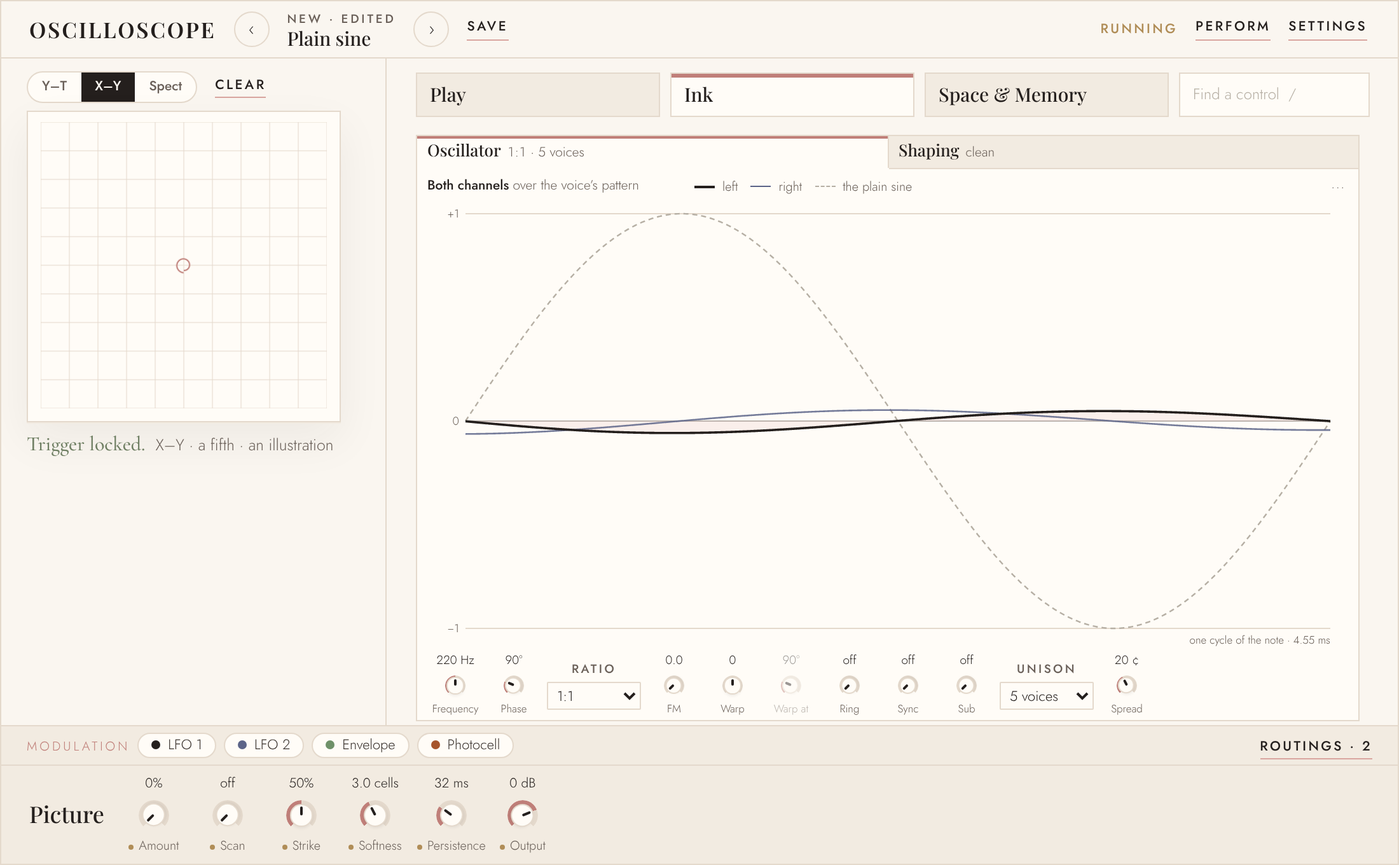
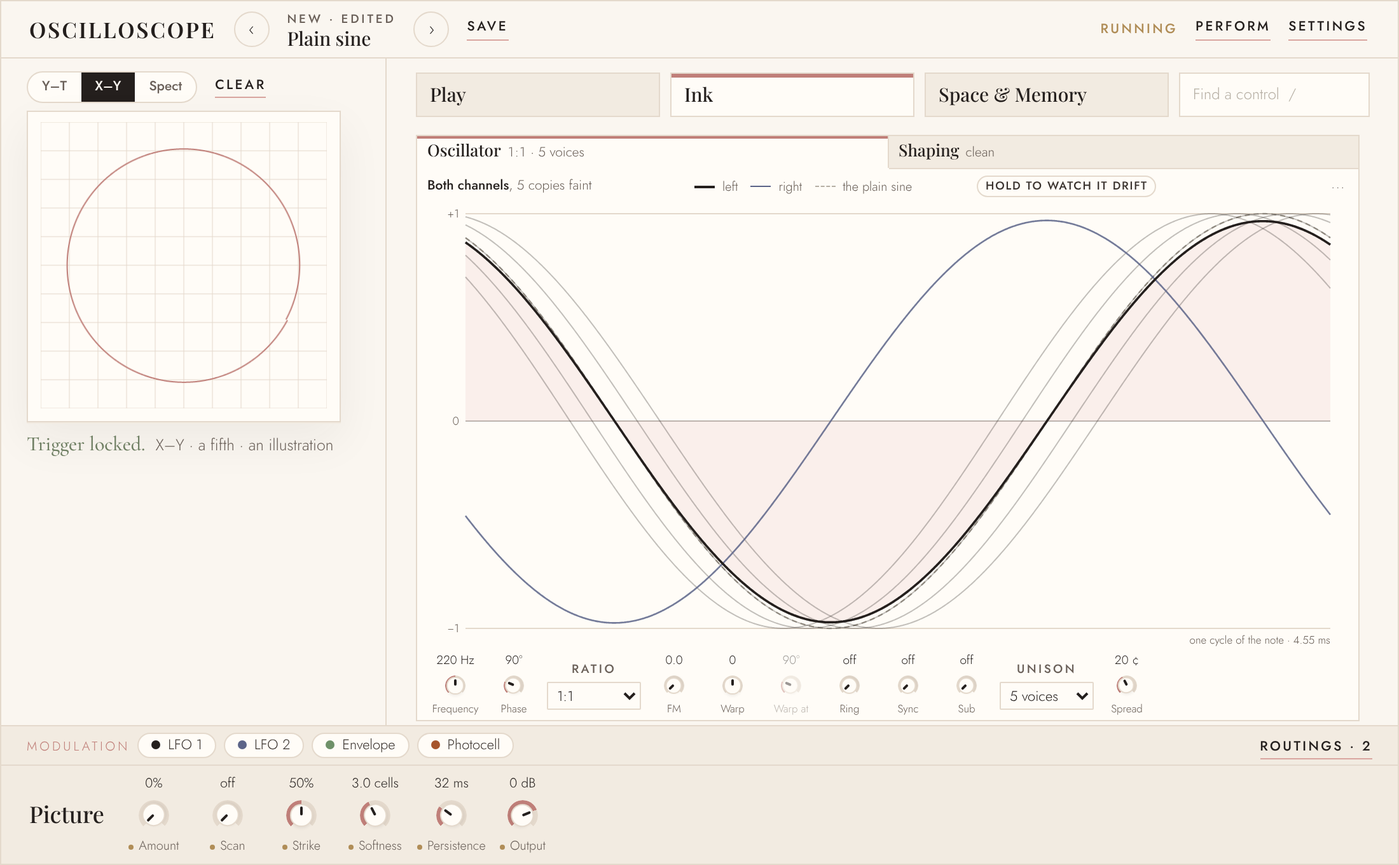
Draw Ink's settings still, with Unison frozen where its copies fan out
The owner found the drifting unison copies made the Oscillator look as if
notes were being played. Ink's drawings now never move by themselves: the
clock-driven redraw is gone, and a drawing changes only when a control
does.

Unison is a still. Each copy is faint in the left channel's ink and their
average, what is heard, bold. They are frozen 4.33 of the note's cycles
in, a quarter of a beat at the widest Spread. That makes the fan the same
at any note, growing with Spread and never folding back. At nought seconds
every copy coincides. "Hold to watch it drift" runs them while held, and
only then, and it keeps its place unseen while Unison is off.

New checks, each with its null:
- the still's bold line is oscStep's output at that moment within 1e-12,
  at 3, 5 and 7 copies;
- the fan grows with Spread;
- nothing redraws over 1.5 s with no control moving, and the old clock put
  back is seen to;
- letting go of the drift returns the very same still.

That last check caught a repaint a pixel short after the hold. Ink is now
rebuilt on letting go, and not refitted while held.

ink-figures.md records the rule as decided.

Claude-Session: https://claude.ai/code/session_01RoVqvNydmG92dn6zbEHjmU

diff --git a/web/docs/mockups/ink/index.html b/web/docs/mockups/ink/index.html
@@ -614,11 +614,11 @@ kbd { font-family: var(--mono); font-size: 0.8em; border: 1px solid var(--pg-lin
   </div>
   <div class="stage-wrap" id="stageWrap"><div class="stage" id="stage"><div class="win" id="win"></div></div></div>
   <div class="fit-line" id="fitLine" aria-live="polite"></div>
-  <p class="page-note">Measured live in the window’s own pixels. Turn a knob by dragging it up or down; a double press puts it back. Unison is drawn as it drifts, while the clock runs.</p>
+  <p class="page-note">Measured live in the window’s own pixels. Turn a knob by dragging it up or down; a double press puts it back. Ink draws the settings, still: nothing moves unless a control does. With Unison on, <i>Hold to watch it drift</i> runs the copies while it is held.</p>
   <h2>What Ink is</h2>
   <ul>
     <li><b>A figure area and nothing else.</b> Ink has no band and no settings row, so the area takes the whole tab. Its bar has two subtabs, each label its name and a summary: <i>Oscillator · 3:2 · FM 2.0</i>, <i>Shaping · drive 45% · 4 bits</i>, or <i>plain</i> and <i>clean</i> when nothing is turned. The summaries shorten as Play’s do, and none needed to at the six windows.</li>
-    <li><b>Oscillator</b> draws <b>both channels over the voice’s whole pattern</b>: the left in charcoal and the right in slate (offset by Phase), with the plain shape dashed and grey behind them, so what the oscillator adds is the difference you see. The span is as many of the note’s cycles as it takes to repeat: the Ratio’s denominator, and the sub’s octave (<i>2 cycles: the pattern repeats every 2</i>). Unison is drawn drifting while the clock runs. Under the drawing is one row: Frequency, Phase, Ratio, FM, Warp, Warp at, Ring, Sync, Sub, Unison and Spread. Warp at and Spread are greyed, not hidden, while Warp and Unison are off. The sub’s octave and shape go to the section’s dots menu.</li>
+    <li><b>Oscillator</b> draws <b>both channels over the voice’s whole pattern</b>: the left in charcoal and the right in slate (offset by Phase), with the plain shape dashed and grey behind them, so what the oscillator adds is the difference you see. The span is as many of the note’s cycles as it takes to repeat: the Ratio’s denominator, and the sub’s octave (<i>2 cycles: the pattern repeats every 2</i>). Unison is drawn still: each copy faint, their average (what you hear) bold, frozen 4.33 of the note’s cycles in, where the outer copies at the widest Spread are a quarter of the way through their beat, so the fan grows with Spread and never folds back. <i>Hold to watch it drift</i> runs them while held, and only then. Under the drawing is one row: Frequency, Phase, Ratio, FM, Warp, Warp at, Ring, Sync, Sub, Unison and Spread. Warp at and Spread are greyed, not hidden, while Warp and Unison are off. The sub’s octave and shape go to the section’s dots menu.</li>
     <li><b>Shaping</b> draws <b>the shaper’s curve</b>, a square of in against out, with the straight line dashed behind it. The Crush’s bits are the steps the curve takes, and the smooth curve stays faint under the steps. Beside it, <b>two cycles of the oscillator before and after</b>, with Rate shown as the holds it puts in at the note’s Frequency. Under them: Drive, Fold, Crush and Rate.</li>
   </ul>
 
@@ -2667,7 +2667,17 @@ const BITS = [[0, "Off"], [8, "8 bits"], [6, "6 bits"], [4, "4 bits"], [3, "3 bi
 const RATES = [[0, "Off"], [11025, "11 kHz"], [8000, "8 kHz"], [4000, "4 kHz"], [2000, "2 kHz"], [1000, "1 kHz"], [500, "500 Hz"]];
 /* The Ink tab's values, in the setup's own units (SETUP_FIELDS): what the knobs store. */
 const INK_START = { freq: 220, phase: 90, oscRatio: 1, oscFm: 0, oscBend: 0, oscBendAt: 25, oscRing: 0, oscSync: 100, oscSub: 0, oscSubOct: 1, oscSubShape: "square", oscUnison: 1, oscSpread: 12, shpDrive: 0, shpFold: 0, shpBits: 0, shpRate: 0 };
-Object.assign(S, { ink: Object.assign({}, INK_START), inkSub: "osc", genShape: "sine", inkShows: "wave", clock: "run", t: 0 });
+Object.assign(S, { ink: Object.assign({}, INK_START), inkSub: "osc", genShape: "sine", inkShows: "wave", drift: null, liveNull: false, nullT: 0 });
+/* Ink draws the settings, still (the owner, 19 Nov): a drawing changes when a control does and at no
+   other time. Unison, which beats, is frozen at one moment, chosen so the copies fan out by the Spread:
+   4.33 of the note's cycles in, which is a quarter of the way through the beat between the outer copies
+   at the widest Spread (50 cents). In cycles rather than seconds, so the fan is the same at any note;
+   short of a quarter beat at any narrower Spread, so the fan grows with Spread and never wraps back.
+   At nought seconds every copy coincides and the fan cannot be seen. */
+const STILL_CYCLES = 0.25 / (Math.pow(2, 50 / 1200) - Math.pow(2, -50 / 1200));
+const stillT = (T) => (T.n > 1 ? STILL_CYCLES / T.hz : 0);
+// The moment drawn: the still, and only while "Hold to watch it drift" is held, the time since.
+const tNow = (T) => stillT(T) + (S.drift ? (performance.now() - S.drift) / 1000 : 0) + (S.liveNull ? S.nullT : 0);
 
 /* The voice's tone as the core reads it from those (restore.h's LayerControl table): FM a tenth, Warp
    0.009 rad a step, Warp at, Ring, Sync and Sub hundredths, drive and fold hundredths. */
@@ -2690,7 +2700,9 @@ function voiceAt(theta, offset, T, t) {
   const warpDc = T.warpA !== 0 ? besselJ1(T.warpA) * Math.sin(TWO_PI * T.warpC) : 0;
   const inCycle0 = offset - TWO_PI * Math.floor(offset / TWO_PI);
   let sum = 0, plainSum = 0;
-  for (let k = 0; k < n; k++) {
+  // T.only: one copy alone (k), at its own detune, for drawing the copies faint.
+  const ks = T.only == null ? Array.from({ length: n }, (_, k) => k) : [T.only];
+  for (const k of ks) {
     const det = n === 1 ? 1 : Math.pow(2, T.cents * (2 * k / (n - 1) - 1) / 1200);
     const run = det * (theta + TWO_PI * T.hz * t);
     const master = run + offset, m = inCycle0 * T.modRatio + run * T.modRatio;
@@ -2704,7 +2716,7 @@ function voiceAt(theta, offset, T, t) {
     if (T.ring > 0) { const g = 1 - T.ring + T.ring * Math.sin(m); v *= g; plain *= g; }
     sum += v; plainSum += plain;
   }
-  return { v: sum / n, bent: blocking ? (sum - plainSum) / n : 0 };
+  return { v: sum / ks.length, bent: blocking ? (sum - plainSum) / ks.length : 0 };
 }
 function subAt(theta, offset, T) {
   if (!(T.sub > 0)) return 0;
@@ -2800,7 +2812,8 @@ function inkHTML() {
   const v = S.ink;
   const bar = '<div class="fbar" role="tablist" aria-label="Ink’s figures">' + INK_SUBS.map(([k, n]) => '<button type="button" class="ftab" role="tab" data-ink-sub="' + k + '" aria-selected="' + (S.inkSub === k) + '"><b>' + n + '</b><span class="sum" data-ink-sum="' + k + '"></span></button>').join("") + '</div>';
   const osc = '<div class="fview" data-view="osc"' + (S.inkSub === "osc" ? "" : " hidden") + '>'
-    + '<div class="fhead"><span class="say" data-osc-say="1"></span><span class="key-ink"><i class="kl"></i>left <i class="kr"></i>right <i class="kp"></i>the plain ' + S.genShape + '</span>' + headEnd("osc") + '</div>'
+    + '<div class="fhead"><span class="say" data-osc-say="1"></span><span class="key-ink"><i class="kl"></i>left <i class="kr"></i>right <i class="kp"></i>the plain ' + S.genShape + '</span>'
+    + '<button type="button" class="tbtn drift" data-drift="1" aria-pressed="false" title="Unison\u2019s copies beat: hold to watch them drift, let go and the drawing is still again">Hold to watch it drift</button>' + headEnd("osc") + '</div>'
     + '<div class="ink-row" data-ink-row="osc"><div class="plot-wrap wave"><svg class="plot" data-ink-plot="wave" role="img" aria-label="Both channels over the voice’s pattern, the plain shape faint behind"></svg></div>'
     + '<div class="plot-wrap figure"' + (S.inkShows === "wave" ? " hidden" : "") + '><svg class="plot" data-ink-plot="xy" role="img" aria-label="The figure the two channels draw, X against Y"></svg></div></div>'
     + '<div class="ffoot"><div class="knobs fig ink-knobs">' + cellHTML("freq", "Frequency") + cellHTML("phase", "Phase")
@@ -2832,9 +2845,10 @@ function drawWave(svg, T) {
   svg.innerHTML = ""; const W = svg.clientWidth, H = svg.clientHeight; if (!W || !H) return;
   svg.setAttribute("viewBox", "0 0 " + W + " " + H);
   const B = H - IF, y = axes(svg, W, H, IL, B, IL, W - IR, true), N = Math.max(200, Math.round((W - IL - IR) * 1.5));
-  const L = channel(T, 0, N, S.t), R = channel(T, S.ink.phase * Math.PI / 180, N, S.t);
+  const t = tNow(T), L = channel(T, 0, N, t), R = channel(T, S.ink.phase * Math.PI / 180, N, t);
   // Over the same span as the voice, so the plain shape's cycles line up under the voice's.
-  const P = channel(Object.assign({}, T, { fmI: 0, warpA: 0, ring: 0, syncR: 1, sub: 0, n: 1 }), 0, N, 0, L.cyc);
+  // At the same moment as the voice, so with Unison the plain shape sits under the middle copy.
+  const P = channel(Object.assign({}, T, { fmI: 0, warpA: 0, ring: 0, syncR: 1, sub: 0, n: 1 }), 0, N, t, L.cyc);
   const cyc = L.cyc, xs = L.v.map((_, i) => IL + (W - IL - IR) * i / (N - 1));
   for (let c = 1; c < cyc; c++) { const x = IL + (W - IL - IR) * c / cyc; el("line", { x1: x, x2: x, y1: IT, y2: B, stroke: "var(--line)", "stroke-width": 1, opacity: 0.8 }, svg); }
   const foot = el("text", { x: W - IR, y: B + 12, "text-anchor": "end", "font-size": 8.5, fill: "var(--text-soft)" }, svg);
@@ -2842,6 +2856,8 @@ function drawWave(svg, T) {
   // The plain shape (no FM, Warp, Ring, Sync, Sub or Unison): faint and dashed, so what the oscillator adds is the difference.
   el("path", { d: pathOf(xs, P.v.map(y)), fill: "none", stroke: "var(--unresolved)", "stroke-width": 1.2, "stroke-dasharray": "4 3", "data-plain": 1 }, svg);
   el("path", { d: pathOf(xs, L.v.map(y)) + "L" + (W - IR) + " " + y(0) + "L" + IL + " " + y(0) + "Z", fill: "var(--blush)", opacity: 0.14 }, svg);
+  // Unison's copies, each faint in the left channel's ink; the bold line over them is their average, what is heard.
+  if (T.n > 1) for (let k = 0; k < T.n; k++) el("path", { d: pathOf(xs, channel(Object.assign({}, T, { only: k }), 0, N, t, L.cyc).v.map(y)), fill: "none", stroke: "var(--charcoal)", "stroke-width": 1, opacity: 0.28, "data-copy": k }, svg);
   el("path", { d: pathOf(xs, R.v.map(y)), fill: "none", stroke: "var(--ch2)", "stroke-width": 1.3, opacity: 0.85, "data-right": 1 }, svg);
   el("path", { d: pathOf(xs, L.v.map(y)), fill: "none", stroke: "var(--charcoal)", "stroke-width": 1.8, "stroke-linejoin": "round", "data-left": 1 }, svg);
   svg._data = { L: L.v, R: R.v, P: P.v, cyc, W, H, y: L.v.map(y) };
@@ -2853,7 +2869,7 @@ function drawXY(svg, T) {
   el("rect", { x: x0, y: y0, width: s, height: s, fill: "none", stroke: "var(--line)" }, svg);
   el("line", { x1: x0 + s / 2, x2: x0 + s / 2, y1: y0, y2: y0 + s, stroke: "var(--line)" }, svg);
   el("line", { x1: x0, x2: x0 + s, y1: y0 + s / 2, y2: y0 + s / 2, stroke: "var(--line)" }, svg);
-  const L = channel(T, 0, N, S.t), R = channel(T, S.ink.phase * Math.PI / 180, N, S.t);
+  const t = tNow(T), L = channel(T, 0, N, t), R = channel(T, S.ink.phase * Math.PI / 180, N, t);
   const X = L.v.map((v) => x0 + s / 2 + v * s / 2 * 0.92), Y = R.v.map((v) => y0 + s / 2 - v * s / 2 * 0.92);
   el("path", { d: pathOf(X, Y), fill: "none", stroke: "var(--blush-deep)", "stroke-width": 1.4, "data-figure": 1 }, svg);
   svg._data = { X, Y, s };
@@ -2910,6 +2926,7 @@ function drawCycle(svg, T) {
 // shown) a square beside it. Shaping: the curve a square of the row's height, the cycle the rest, the
 // row no taller than leaves the cycle 1.5:1.
 function fitInk() {
+  if (S.drift) return;   // held: the still's size is kept
   const row = document.querySelector('[data-ink-row="' + S.inkSub + '"]');
   if (!row) return;
   row.style.removeProperty("height"); row.style.flex = "";
@@ -2953,14 +2970,18 @@ paint = function () {
   const T = toneOf(S.ink);
   // The knobs' readings first: an empty reading stands shorter, and the fit would give the drawing
   // the height the readings then take back (the LFO mockup's no-shift check found the same).
+  // The header's words before the fit too: a line that changes after it moved the drawing 0.07 px,
+  // which the check that letting go of the drift returns the very same still caught.
+  const say = document.querySelector("[data-osc-say]"); if (say) say.innerHTML = S.ink.oscUnison > 1 ? "<b>Both channels</b>, " + S.ink.oscUnison + " copies faint" : "<b>Both channels</b> over the voice’s pattern";
+  // The drift button keeps its place unseen while Unison is off, so nothing moves when it comes.
+  document.querySelectorAll("[data-drift]").forEach((b) => { b.style.visibility = S.ink.oscUnison > 1 ? "visible" : "hidden"; b.tabIndex = S.ink.oscUnison > 1 ? 0 : -1; });
+  const ss = document.querySelector("[data-shp-say]"); if (ss) ss.innerHTML = "<b>The curve</b> and two cycles through it";
   paintKnobs();
   fitInk();
   document.querySelectorAll("[data-ink-plot]").forEach((svg) => {
     if (!svg.getClientRects().length) return;
     ({ wave: drawWave, xy: drawXY, transfer: drawTransfer, cycle: drawCycle })[svg.dataset.inkPlot](svg, T);
   });
-  const say = document.querySelector("[data-osc-say]"); if (say) say.innerHTML = "<b>Both channels</b> over the voice’s pattern";
-  const ss = document.querySelector("[data-shp-say]"); if (ss) ss.innerHTML = "<b>The curve</b> and two cycles through it";
   fitInkLabels();
   paintKnobs();
   const tl = document.querySelectorAll("#bench .tabs .tab")[1]; if (tl) tl.querySelector("span").textContent = inkTabLine();
@@ -2974,7 +2995,7 @@ paintScreen = function () {
   g.fillStyle = "#fffcf7"; g.fillRect(0, 0, w, h);
   g.strokeStyle = "#e4d9cc"; g.lineWidth = 1;
   for (let i = 0; i <= 10; i++) { g.beginPath(); g.moveTo(i * w / 10, 0); g.lineTo(i * w / 10, h); g.stroke(); g.beginPath(); g.moveTo(0, i * h / 10); g.lineTo(w, i * h / 10); g.stroke(); }
-  const L = channel(T, 0, 1400, S.t), R = channel(T, S.ink.phase * Math.PI / 180, 1400, S.t);
+  const t = tNow(T), L = channel(T, 0, 1400, t), R = channel(T, S.ink.phase * Math.PI / 180, 1400, t);
   g.strokeStyle = "#c07f79"; g.lineWidth = 2; g.beginPath();
   L.v.forEach((v, i) => { const x = w / 2 + v * w * 0.42, y = h / 2 - R.v[i] * h * 0.42; if (i) g.lineTo(x, y); else g.moveTo(x, y); }); g.stroke();
 };
@@ -3086,14 +3107,30 @@ for (const [id, key] of [["pgInkSub", "inkSub"], ["pgShows", "inkShows"], ["pgGe
 document.querySelectorAll("#pgPreset button").forEach((b) => b.addEventListener("click", () => { Object.assign(S.ink, INK_START, JSON.parse(b.dataset.v)); render(); }));
 document.getElementById("stage").addEventListener("click", (ev) => { const t = ev.target.closest("[data-ink-sub]"); if (t) { S.inkSub = t.dataset.inkSub; render(); } });
 document.getElementById("stage").addEventListener("change", (ev) => { const t = ev.target; if (t.dataset.ink) { S.ink[t.dataset.ink] = isNaN(+t.value) ? t.value : +t.value; paint(); } });
+/* Hold to watch it drift: Unison's copies run on from the still while the button is held, and only
+   then. Let go and the drawing is the still again. Nothing else on Ink redraws by itself. */
+let driftRaf = 0;
+// While held, the drawing is not refitted: it keeps the still's size, only its copies move.
+function driftTick() { if (!S.drift) return; paint(); driftRaf = requestAnimationFrame(driftTick); }
+function driftStop() { if (!S.drift) return; S.drift = null; cancelAnimationFrame(driftRaf); render(); }
+/* Let go, Ink is built again rather than repainted: a repaint after the hold measured the row a pixel
+   shorter (a pressed button's focus in the scrolling body), and the still has to be the very same one. */
+document.getElementById("stage").addEventListener("pointerdown", (ev) => {
+  const b = ev.target.closest("[data-drift]"); if (!b || ev.button !== 0 || S.ink.oscUnison === 1) return;
+  ev.preventDefault(); try { b.setPointerCapture(ev.pointerId); } catch (e) { /* a pointer the browser no longer has */ } S.drift = performance.now(); b.setAttribute("aria-pressed", "true"); driftTick();
+});
+for (const kind of ["pointerup", "pointercancel"]) document.addEventListener(kind, driftStop);
+document.addEventListener("keydown", (ev) => { if ((ev.key === " " || ev.key === "Enter") && ev.target.closest && ev.target.closest("[data-drift]") && !ev.repeat && S.ink.oscUnison > 1) { ev.preventDefault(); S.drift = performance.now(); ev.target.setAttribute("aria-pressed", "true"); driftTick(); } });
+document.addEventListener("keyup", (ev) => { if (ev.key === " " || ev.key === "Enter") driftStop(); });
+/* The checks' null only: the clock-driven redraw this replaced, put back, so a check that nothing
+   redraws over time can be seen to fail. Off unless a check turns it on. */
 let lastT = performance.now();
-function clockTick(now) {
+function liveNullTick(now) {
   const dt = Math.min(0.1, (now - lastT) / 1000); lastT = now;
-  // Only unison moves with time; it is drawn as the copies drift apart and back.
-  if (!document.body.classList.contains("shot") && S.ink.oscUnison > 1 && S.inkSub === "osc") { S.t += dt; paint(); }
-  requestAnimationFrame(clockTick);
+  if (S.liveNull) { S.nullT += dt; paint(); }
+  requestAnimationFrame(liveNullTick);
 }
-window.__ink = { S, INK_START, toneOf, channel, voiceAt, shaperOf, wave, spanCycles, inkMeasure, inkBoxes, inkSurvey, tells, render: () => render(), paint: () => paint() };
+window.__ink = { S, INK_START, STILL_CYCLES, stillT, toneOf, channel, voiceAt, shaperOf, wave, spanCycles, inkMeasure, inkBoxes, inkSurvey, tells, render: () => render(), paint: () => paint() };
 
 const Q = new URLSearchParams(location.search);
 if (Q.get("size") && SIZES[Q.get("size")]) S.size = Q.get("size");
@@ -3101,10 +3138,10 @@ if (Q.get("sub")) S.inkSub = Q.get("sub");
 if (Q.get("shows")) S.inkShows = Q.get("shows");
 if (Q.get("gen")) S.genShape = Q.get("gen");
 if (Q.get("set")) Object.assign(S.ink, JSON.parse(Q.get("set")));
-if (Q.get("t")) S.t = +Q.get("t");
+
 if (Q.get("shot")) document.body.classList.add("shot");
 render();
-requestAnimationFrame(clockTick);
+requestAnimationFrame(liveNullTick);
 const settle = () => { render(); if (!Q.get("shot")) inkSurvey(); window.__ready = true; };
 if (document.fonts && document.fonts.ready) document.fonts.ready.then(settle); else settle();
 </script>

diff --git a/web/docs/mockups/ink/checks/ink_checks.py b/web/docs/mockups/ink/checks/ink_checks.py
@@ -8,6 +8,9 @@ seen to fail, as CLAUDE.md asks of every new assertion.
   core/include and runs the real oscStep (osc.h) and shapeSample, setShaping
   and the crush's quantiser (voice.h). The mockup's drawing of each case is
   compared with it, point for point:
+  * Unison's still, the copies' average 4.33 of the note's cycles in, at
+    3, 5 and 7 copies, within 1e-6 of oscStep run that long (null: the still
+    drawn at nought seconds); and the fan grows with Spread;
   * the smooth cases (FM, Ring, Warp on the sine, Unison, the harmonic at
     7:2) within 1e-6; a sine sub within 1e-3, since the core's sub steps
     before it reads and so runs one sample ahead of the note;
@@ -35,6 +38,10 @@ seen to fail, as CLAUDE.md asks of every new assertion.
 - nothing moves: every box on Ink the same to half a pixel across nine
   settings, five shapes and both subtabs (outside the view). Null: the key
   over the wave sized to its words changes its box when the shape is renamed;
+- Ink draws the settings, still: with Unison on and no control moving,
+  neither the wave nor the screen redraws over 1.5 s. Null: the clock-driven
+  redraw this replaced, put back, moves the wave. Hold to watch it drift moves
+  the copies while held and lets go to the same still;
 - no console errors through every window, subtab and setting;
 - a phone's width has no horizontal page scroll.
 
@@ -67,7 +74,7 @@ subprocess.run(["g++", "-std=c++17", "-O2", "-I", os.path.join(ROOT, "core", "in
 def core_osc(c):
     args = [exe, "osc", c["shape"], str(c.get("fm", 0)), str(c.get("ratio", 1)), str(c.get("warp", 0)), str(c.get("warpAt", 0.25)), str(c.get("ring", 0)),
             str(c.get("sync", 1)), str(c.get("sub", 0)), str(c.get("subOct", 1)), str(c.get("subSine", 0)), str(c.get("unison", 1)), str(c.get("cents", 12)),
-            str(c.get("offset", 0)), str(c["cycles"]), str(c["points"])]
+            str(c.get("offset", 0)), str(c["cycles"]), str(c["points"])] + ([str(c["settle"])] if "settle" in c else [])
     return [float(x) for x in subprocess.run(args, capture_output=True, text=True, check=True).stdout.split()]
 def core_shaper(d, f, bits):
     return [float(x) for x in subprocess.run([exe, "shaper", str(d), str(f), str(bits)], capture_output=True, text=True, check=True).stdout.split()]
@@ -126,6 +133,22 @@ with sync_playwright() as pw:
         rows.append({"case": name, "worst": w, "tolerance": tol})
         check(w <= tol, f"{name}: the drawing is oscStep's output within {tol:g} (worst {w:.3g})")
     results["core"] = rows
+    # Unison's still: the bold line, the copies' average at the moment drawn (4.33 of the note's cycles
+    # in), is oscStep's output at that moment. The core is run that long exactly.
+    still = E("() => window.__ink.STILL_CYCLES") / 220
+    for n_, cents in ((3, 12), (5, 20), (7, 50)):
+        # The core runs whole samples, so both are read at the sample nearest the still.
+        at = round(still * 220 * 4096) / (220 * 4096)
+        c = dict(shape="sine", unison=n_, cents=cents, cycles=1, t=at, settle=at)
+        w = compare(core_osc(dict(c, points=512)), E(JS, [c, 512]), False)
+        check(w <= 1e-6, f"Unison {n_} at {cents} cents, the still ({still * 1000:.2f} ms in): the bold line is oscStep's average within 1e-6 (worst {w:.3g})")
+    c = dict(shape="sine", unison=5, cents=20, cycles=1, t=0, settle=round(still * 220 * 4096) / (220 * 4096))
+    w = compare(core_osc(dict(c, points=512)), E(JS, [c, 512]), False)
+    null(w <= 1e-6, f"the still drawn at nought seconds against oscStep at the still's moment ({w:.3f} off)")
+    fan = E("""() => { const I = window.__ink, out = []; for (const cents of [5, 20, 50]) { const T = I.toneOf(Object.assign({}, I.INK_START, { oscUnison: 5, oscSpread: cents })); T.hz = 220;
+      const t = I.stillT(T), lo = I.channel(Object.assign({}, T, { only: 0 }), 0, 400, t).v, hi = I.channel(Object.assign({}, T, { only: 4 }), 0, 400, t).v;
+      out.push(Math.max(...lo.map((x, i) => Math.abs(x - hi[i])))); } return out; }""")
+    check(fan[0] < fan[1] < fan[2] and fan[0] > 0.05, f"the still's fan grows with Spread: the outer copies apart by {fan[0]:.2f}, {fan[1]:.2f}, {fan[2]:.2f} at 5, 20 and 50 cents")
     c = CASES[0][1]
     w = compare(core_osc(dict(c, fm=0, points=512)), E(JS, [c, 512]), False)
     null(w <= 1e-6, f"the FM drawing against the core with FM off ({w:.2f} off)")
@@ -179,7 +202,7 @@ with sync_playwright() as pw:
     null(all(r == 1 for r in wrap["knobRows"]), f"a control row 300 px wide wraps into {wrap['knobRows']} rows")
 
     # ---- nothing moves ----
-    SETTINGS = [{}, {"oscFm": 20, "oscRatio": 1.5}, {"oscBend": 60}, {"oscRing": 70, "oscRatio": 2}, {"oscSync": 260}, {"oscSub": 60}, {"oscUnison": 5, "oscSpread": 20},
+    SETTINGS = [{}, {"oscUnison": 3}, {"oscFm": 20, "oscRatio": 1.5}, {"oscBend": 60}, {"oscRing": 70, "oscRatio": 2}, {"oscSync": 260}, {"oscSub": 60}, {"oscUnison": 5, "oscSpread": 20},
                 {"shpDrive": 45, "shpBits": 4}, {"shpFold": 35, "shpRate": 2000}]
     STATE = """([size, sub, set, shape]) => { const I = window.__ink, S = I.S; S.size = size; S.inkSub = sub; S.inkShows = "wave"; S.genShape = shape; Object.assign(S.ink, I.INK_START, set); I.render(); return I.inkBoxes(); }"""
     def moved(a, bb):
@@ -200,6 +223,24 @@ with sync_playwright() as pw:
     a = E(STATE, ["1400x900", "osc", {}, "sine"]); bb = E(STATE, ["1400x900", "osc", {}, "triangle"])
     E("() => document.getElementById('nullKey').remove()")
     null(not moved(a, bb), "the key sized to its words changes " + ", ".join(moved(a, bb)[:3]) + " when the shape goes from sine to triangle")
+
+    # ---- nothing redraws by itself ----
+    STILLNESS = """(live) => new Promise((done) => { const I = window.__ink, S = I.S; document.body.classList.remove("shot"); S.size = "1400x900"; S.inkSub = "osc";
+      Object.assign(S.ink, I.INK_START, { oscUnison: 5, oscSpread: 20 }); S.liveNull = live; S.nullT = 0; I.render();
+      const d0 = document.querySelector('[data-ink-plot="wave"] [data-left]').getAttribute("d"), s0 = document.getElementById("screen").toDataURL();
+      setTimeout(() => { const d1 = document.querySelector('[data-ink-plot="wave"] [data-left]').getAttribute("d"), s1 = document.getElementById("screen").toDataURL();
+        S.liveNull = false; document.body.classList.add("shot"); done({ wave: d0 === d1, screen: s0 === s1 }); }, 1500); })"""
+    r = E(STILLNESS, False)
+    check(r["wave"] and r["screen"], "with Unison on and no control moving, nothing on Ink redraws over 1.5 s (the wave and the screen)")
+    r = E(STILLNESS, True)
+    null(r["wave"], "the clock-driven redraw put back moves the wave within 1.5 s")
+    drift = E("""() => new Promise((done) => { const I = window.__ink, S = I.S; Object.assign(S.ink, I.INK_START, { oscUnison: 5, oscSpread: 20 }); I.render();
+      const b = document.querySelector("[data-drift]"), r = b.getBoundingClientRect(), d0 = document.querySelector('[data-ink-plot="wave"] [data-left]').getAttribute("d");
+      b.dispatchEvent(new PointerEvent("pointerdown", { bubbles: true, button: 0, pointerId: 1, clientX: r.left + 4, clientY: r.top + 4 }));
+      setTimeout(() => { const d1 = document.querySelector('[data-ink-plot="wave"] [data-left]').getAttribute("d");
+        document.dispatchEvent(new PointerEvent("pointerup", { bubbles: true, pointerId: 1 }));
+        const d2 = document.querySelector('[data-ink-plot="wave"] [data-left]').getAttribute("d"); done({ held: d1 !== d0, after: d2 === d0 }); }, 600); })""")
+    check(drift["held"] and drift["after"], "Hold to watch it drift moves the copies while held, and lets go back to the very same still")
 
     check(not errs, "no console errors through every window, subtab and setting" + (": " + "; ".join(errs[:3]) if errs else ""))
     ph = b.new_page(viewport={"width": 430, "height": 900}); webfonts.route(ph)

diff --git a/web/docs/mockups/ink/checks/core_ref.cpp b/web/docs/mockups/ink/checks/core_ref.cpp
@@ -1,7 +1,7 @@
 // The core's own oscillator and shaper, run for the Ink mockup's checks: the drawings are compared
 // with what these print. Built against core/include, nothing copied:
 //   g++ -std=c++17 -O2 -I core/include web/docs/mockups/ink/checks/core_ref.cpp -o core_ref
-// Usage: core_ref osc shape fm ratio warp warpAt ring sync sub subOct subSine unison cents offsetDeg cycles points
+// Usage: core_ref osc shape fm ratio warp warpAt ring sync sub subOct subSine unison cents offsetDeg cycles points [settleSeconds]
 //        core_ref shaper drive fold bits      (x from -1 to 1, 2001 points: shapeSample, then crushStep's quantiser)
 #include <cstdio>
 #include <cstdlib>
@@ -43,7 +43,10 @@ int main(int argc, char** argv) {
   x.dcK = poleFor(1000 / (kTwoPi * kBendDcHz), rate);
   Osc o;
   const WaveTables bars;
-  const long settle = static_cast<long>(rate * 2 / (4096 * cycles)) * static_cast<long>(4096 * cycles);   // whole patterns
+  // Whole patterns of about two seconds, or, given an 18th argument, that many seconds exactly (for
+  // unison's still, where the copies' own phases are what is read and the note's base does not matter).
+  long settle = static_cast<long>(rate * 2 / (4096 * cycles)) * static_cast<long>(4096 * cycles);
+  if (argc > 17) settle = std::lround(std::atof(argv[17]) * rate);
   const long per = static_cast<long>(4096 * cycles);
   double base = 0;
   const double step = kTwoPi * hz / rate;

diff --git a/web/docs/mockups/ink/checks/screenshots.py b/web/docs/mockups/ink/checks/screenshots.py
@@ -20,7 +20,7 @@ SHOTS = [
     ("04-oscillator-ring-at-1100x860", "size=1100x860", {"oscRing": 70, "oscRatio": 2}),
     ("05-oscillator-sync-saw-at-1200x680", "size=1200x680&gen=ramp", {"oscSync": 260}),
     ("06-oscillator-sub-at-960x600", "size=960x600", {"oscSub": 60}),
-    ("07-oscillator-unison-at-1100x680", "size=1100x680&t=0.3", {"oscUnison": 5, "oscSpread": 20}),
+    ("07-oscillator-unison-at-1100x680", "size=1100x680", {"oscUnison": 5, "oscSpread": 20}),
     ("08-shaping-drive-and-4-bits-at-1400x900", "size=1400x900&sub=shp", {"shpDrive": 45, "shpBits": 4}),
     ("09-shaping-fold-and-2-khz-at-960x600", "size=960x600&sub=shp", {"shpFold": 35, "shpRate": 2000}),
     ("10-shaping-at-1660x1050", "size=1660x1050&sub=shp", {"shpDrive": 30, "shpFold": 15}),

diff --git a/web/docs/ink-figures.md b/web/docs/ink-figures.md
@@ -31,7 +31,29 @@ The span is as many of the note's cycles as it takes to repeat. That is the
 Ratio's denominator while FM or Ring is on, times the sub's octave, at most 8.
 The foot says so: *2 cycles: the pattern repeats every 2 · 9.1 ms*.
 
-Unison is drawn as its copies drift, while the clock runs.
+**Unison is drawn still** (decided, below):
+
+- each copy faint, in the left channel's ink;
+- their average, what is heard, bold over them;
+- the plain shape at the same moment, so it sits under the middle copy.
+
+The moment is **4.33 of the note's cycles in** (19.7 ms at 220 Hz). That is a
+quarter of the way through the beat between the outer copies at the widest
+Spread, 50 cents. It was chosen for three reasons:
+
+- At nought seconds every copy coincides and the fan cannot be seen.
+- A quarter of a beat at the *current* Spread is always 90 degrees, so the fan
+  would not change as Spread turns.
+- Counted in cycles of the note, not seconds, the fan is the same at any
+  note. It grows with Spread (the outer copies 0.18, 0.71 and 1.58 apart at
+  5, 20 and 50 cents) and never folds back.
+
+**Hold to watch it drift** sits in the Oscillator's header. It runs the copies
+on from the still while held, and only then. Let go and the drawing is the
+very same still. It keeps its place unseen while Unison is off, so nothing
+moves when it appears. It earns its place because the still shows how far the
+copies spread but not how fast they beat. The drift shows that, and it is
+only ever asked for.
 
 **The controls**, in one row under the drawing: Frequency, Phase, Ratio
 (menu), FM, Warp, Warp at, Ring, Sync, Sub, Unison (menu) and Spread.
@@ -78,6 +100,20 @@ modulation row.
 nine settings, five shapes and both subtabs (outside the view). The check
 found one real shift: the key over the wave named the plain shape and changed
 width. It is one width now.
+
+## Decided (19 Nov, the owner)
+
+**Ink draws the settings, still, never live by default.** A drawing changes
+when a control changes and at no other time:
+
+- there is no clock-driven redraw;
+- Unison is a still (above);
+- the only motion is *Hold to watch it drift*, while it is held.
+
+The owner found the drifting copies made the Oscillator look as if notes were
+being played. The checks hold the rule. With Unison on and nothing touched,
+neither the wave nor the screen redraws over 1.5 s. The null is the old
+clock put back, which is seen to move the wave.
 
 ## The wave, not the figure
 
@@ -142,6 +178,9 @@ The drawing leaves three things out, each under a pixel:
 shaper. `checks/ink_checks.py` compares each drawing with it, 512 points a
 pattern:
 
+- Unison's still, at 3, 5 and 7 copies: the bold line is `oscStep`'s output
+  at that moment, the core run exactly that long, within 1e-12 (null: the
+  still drawn at nought seconds, 1.69 off);
 - FM (left and right), Ring, Warp on the sine, Unison and the harmonic at 7:2
   agree within 1e-9;
 - Sync and the square agree within 0.0013 away from their edges;
@@ -166,7 +205,9 @@ The build's face suite (`web/tests/`) should keep three things:
   binary;
 - the fit at the six windows, with its nulls (a row given the whole view runs
   over; a control row 300 px wide wraps);
-- the no-shift check, with its null (the key sized to its words).
+- the no-shift check, with its null (the key sized to its words);
+- the stillness check, with its null (the clock put back), and that letting
+  go of the drift returns the very same still.
 
 `fittest.py` and `patchtest.py` take Ink as they took Play.
 
